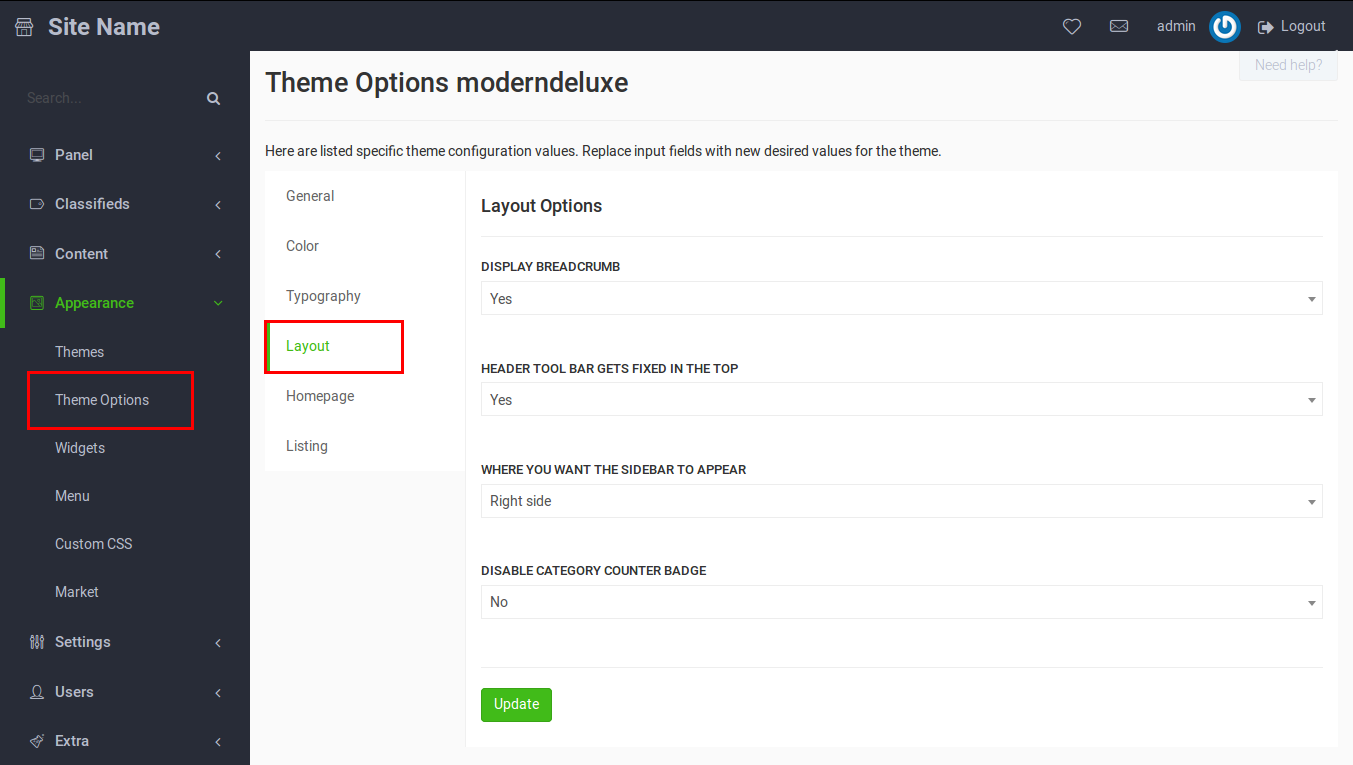
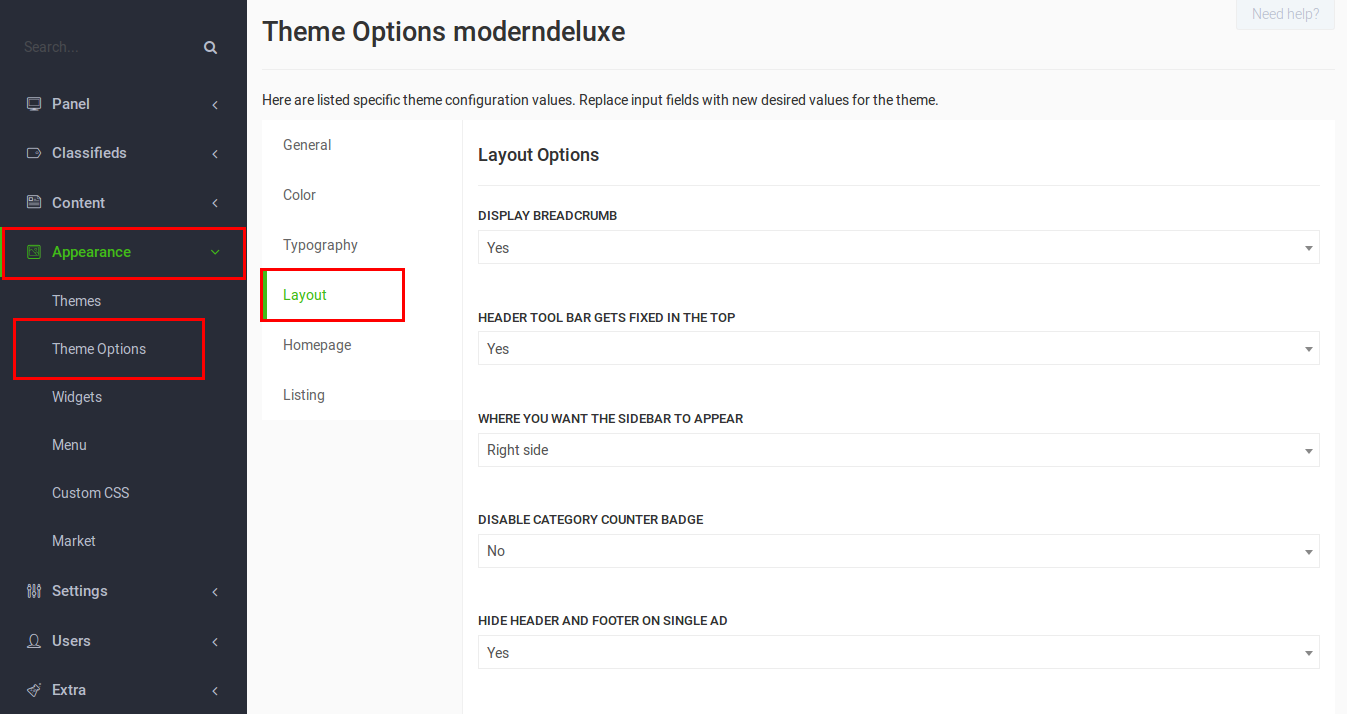
Include feature to guides

diff --git a/configuration-of-premium-themes.md b/configuration-of-premium-themes.md
@@ -24,6 +24,8 @@ When you buy one of our **[Premium Themes](https://selfhosted.yclas.com/),** you
 ![breadcrumbs](//open-classifieds.com/wp-content/uploads/2013/09/breadcrumb-Demo-Open-Classifieds.png)
 </a>
 
++ **Hide header and footer on single ad and user profile page:** Removes the header, breadcrumbs and footer on single ad and user profile page. Enable to show the user profile page like "your store".
+
 + **Set max layout width in pixel**: change the website width according to what suits your content ( **[Newspaper](https://selfhosted.yclas.com/themes/newspaper.html)** only)
 
 + **URL to your Logo:** upload your logo to your FTP and paste a URL to it. Recommended size of the image is **250px x 40px**. Leave this field blank if you don't want logo at all.

diff --git a/overview-kamaleon-theme.md b/overview-kamaleon-theme.md
@@ -35,6 +35,7 @@ The Kamaleon theme owes its name to the 18 different styles/color schemes that a
 + **Where you want the sidebar to appear:** Choose if you want the sidebar to be displayed on the right or left of your website.
 + **Disable category counter badge:** Choose if you want to display the category counter badge in the homepage.
 + **Hide page links on footer:** Choose if you want to display the created pages on the footer. Follow [this guide](http://docs.yclas.com/how_to_add_pages/) to learn how to create pages.  
++ **Hide header and footer on single ad and user profile page:** Removes the header, breadcrumbs and footer on single ad and user profile page. Enable to show the user profile page like "your store".
 
 
 ## Listing

diff --git a/overview-olson-theme.md b/overview-olson-theme.md
@@ -33,6 +33,7 @@ The Olson theme is a neatly designed theme with an organized, clear and fresh lo
 + **Header tool bar gets fixed in the top:** Decide, if while scrolling your page down, the header from the top moves and is always visible (choose YES) or not (choose NO).
 + **Where you want the sidebar to appear:** Choose if you want the sidebar to be displayed on the right or left of your website.
 + **Disable category counter badge:** Choose if you want to display the category counter badge in the homepage.
++ **Hide header and footer on single ad and user profile page:** Removes the header, breadcrumbs and footer on single ad and user profile page. Enable to show the user profile page like "your store".
 
 
 ## Homepage

diff --git a/overview-moderndeluxe-theme.md b/overview-moderndeluxe-theme.md
@@ -32,6 +32,7 @@ The ModernDeluxe 3 theme is the newest version of our ModernDeluxe theme. It off
 + **Header tool bar gets fixed in the top:** Decide, if while scrolling your page down, the header from the top moves and is always visible (choose YES) or not (choose NO).
 + **Where you want the sidebar to appear:** Choose if you want the sidebar to be displayed on the right or left of your website.
 + **Disable category counter badge:** Choose if you want to display the category counter badge in the homepage.
++ **Hide header and footer on single ad and user profile page:** Removes the header, breadcrumbs and footer on single ad and user profile page. Enable to show the user profile page like "your store".
 
 
 ## Listing

diff --git a/overview-newspaper-theme.md b/overview-newspaper-theme.md
@@ -49,6 +49,7 @@ The newspaper theme is a theme with a modern and fresh look. The design is clean
 + **Where you want the sidebar to appear:** Choose if you want the sidebar to be displayed on the right or left of your website.
 + **Turn off sidebar in advertisement page:** Choose if you want the sidebar to be displayed in advertisement page.
 + **Hide icon on category/location description:** Choose No if you want to display the category/location icon on category/location page. 
++ **Hide header and footer on single ad and user profile page:** Removes the header, breadcrumbs and footer on single ad and user profile page. Enable to show the user profile page like "your store".
 
 
 ## Listing

diff --git a/overview-pinclass-theme.md b/overview-pinclass-theme.md
@@ -41,7 +41,6 @@ Pinclass is a new theme created and inspired from the successful sites like Pint
 
 + **Boxed or wide layout:** Choose between Boxed and Wide.
 
-
 <br>
 **Boxed:**
 
@@ -56,6 +55,7 @@ Pinclass is a new theme created and inspired from the successful sites like Pint
 ![Pinclass]({{ site.baseurl }}/images/wide.png) 
 </a>
 
++ **Hide header and footer on single ad and user profile page:** Removes the header, breadcrumbs and footer on single ad and user profile page. Enable to show the user profile page like "your store".
 
 ## Homepage
 

diff --git a/overview-czsale-theme.md b/overview-czsale-theme.md
@@ -36,6 +36,7 @@ The CZSale theme is a fully responsive theme that was developed with the Bootstr
 
 + **Display breadcrumb:** If it's enabled, breadcrumb is displayed on the website.
 + **Where you want the sidebar to appear:** Choose if you want the sidebar to be displayed on the right or left of your website.
++ **Hide header and footer on single ad and user profile page:** Removes the header, breadcrumbs and footer on single ad and user profile page. Enable to show the user profile page like "your store".
 
 ## Homepage
 

diff --git a/overview-splash-theme.md b/overview-splash-theme.md
@@ -35,7 +35,7 @@ Splash is one of our newest themes, with great visuals that allow you to create 
 </a>
 
 + **Where you want the sidebar to appear:** Choose if you want the sidebar to be displayed on the right or left of your website.
-
++ **Hide header and footer on single ad and user profile page:** Removes the header, breadcrumbs and footer on single ad and user profile page. Enable to show the user profile page like "your store".
 
 ## Homepage
 
